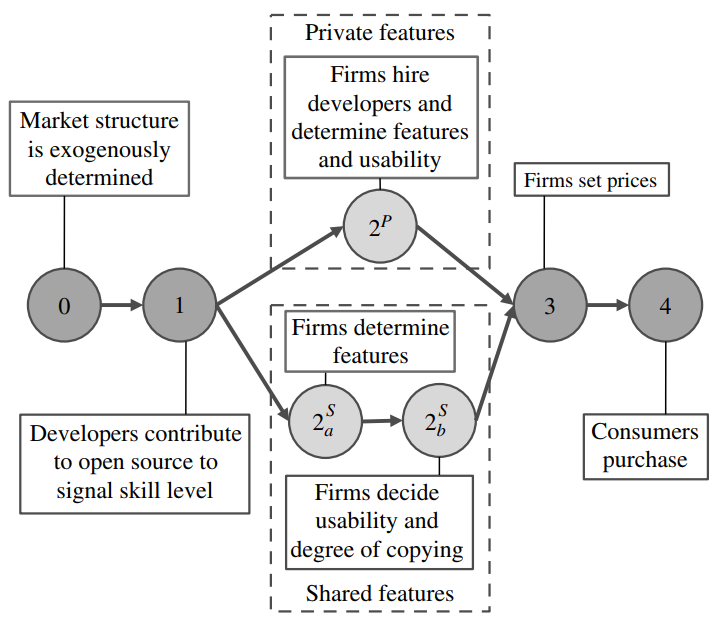
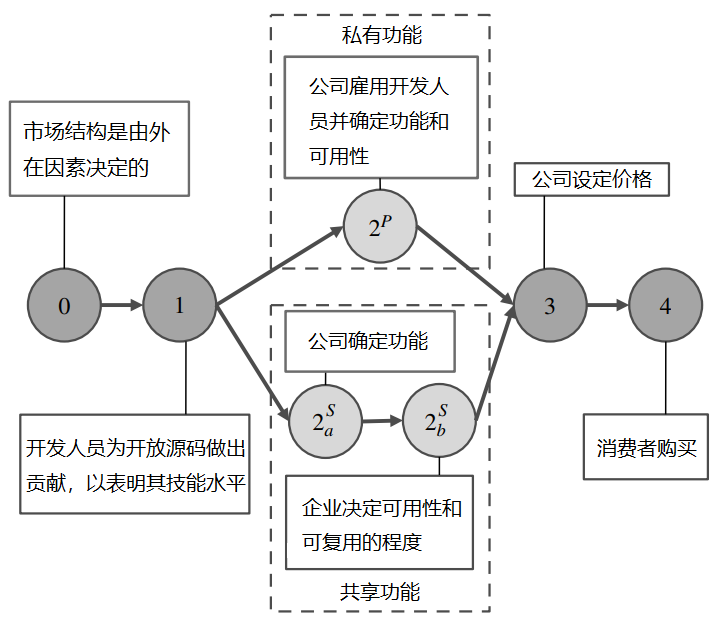
修订文章《开源软件的竞争战略》

diff --git a/_posts/2022-04-01-competitive-strategy-for-open-source-software.md b/_posts/2022-04-01-competitive-strategy-for-open-source-software.md
@@ -71,7 +71,7 @@ comments: true
 
 我们建立了一个由事先相同的公司组成的双头垄断模型，它们在两个独立但相互关联的市场中竞争：第一个是产品市场，消费者购买公司生产的软件；第二个是开发者市场，公司在其中竞争开发者。
 
-图 1 详细说明了我们模型中的阶段顺序，其中包括私人特征和共享特征市场。阶段 0、1、3 和 4 对两种类型的产品市场都是共同的，而阶段$2^P$只存在于私有功能市场，阶段$$ 2^S_a $$和$$ 2^S_b $$只存在于共享功能市场。在第一阶段，开发者选择是否对开源功能做出贡献以及贡献的多少，以表明他们的技能水平。在私有功能市场中，企业同时观察到开发者的信号，并在阶段$$ 2^P $$中做出工资报价和所有产品开发决策。在共享功能市场中，企业观察开发者的信号，并在阶段$$ 2^S_a $$中做出工资报价和唯一的功能开发决策，然后他们在阶段$$ 2^S_b $$中选择开发多少可用性和复制多少功能给他们的竞争对手。在第三阶段，企业在观察了产品质量后制定价格，在第四阶段，消费者在观察了所有质量和价格后做出购买决定。表 1 总结了我们模型的符号，区分了模型中的外生模型基元和内生结果。
+图 1 详细说明了我们模型中的阶段顺序，其中包括私人特征和共享特征市场。阶段 0、1、3 和 4 对两种类型的产品市场都是共同的，而阶段$$2^P$$只存在于私有功能市场，阶段$$ 2^S_a $$和$$ 2^S_b $$只存在于共享功能市场。在第一阶段，开发者选择是否对开源功能做出贡献以及贡献的多少，以表明他们的技能水平。在私有功能市场中，企业同时观察到开发者的信号，并在阶段$$ 2^P $$中做出工资报价和所有产品开发决策。在共享功能市场中，企业观察开发者的信号，并在阶段$$ 2^S_a $$中做出工资报价和唯一的功能开发决策，然后他们在阶段$$ 2^S_b $$中选择开发多少可用性和复制多少功能给他们的竞争对手。在第三阶段，企业在观察了产品质量后制定价格，在第四阶段，消费者在观察了所有质量和价格后做出购买决定。表 1 总结了我们模型的符号，区分了模型中的外生模型基元和内生结果。
 
 ![](/assets/img/cs-oss-01.png)
 
@@ -97,7 +97,7 @@ comments: true
 
 ### 3.1. 产品市场
 
-消费者要么选择从某个 OSS 公司购买一个单位的软件，要么不购买产品，在这种情况下，他们得到的归一化效用为 0。消费者对质量的偏好是异质的，一个消费者在价格为 p 的情况下对质量为 q 的软件产品的效用为
+消费者要么选择从某个 OSS 公司购买一个单位的软件，要么不购买产品，在这种情况下，他们得到的归一化效用为 0。消费者对质量的偏好是异质的，一个以 $$\theta$$ 为指数的消费者对质量为 q、价格为 p 的软件产品的效用为
 
 $$ u(q;\theta) = \theta q - p. $$
 
@@ -111,13 +111,13 @@ $$ q = Q(F, s). $$
 
 $$ {\partial^2Q \over \partial s \partial F} > 0. $$
 
-捕捉到这种互补性并且在特征和可用性方面都是凹的简单函数形式是 Cobb-Douglas，$$Q(F,s)=(F-s)^{1/4}$$，为了方便起见，我们使用这个函数。上述消费者偏好和产品质量的表述对所有市场都是通用的。图 2 说明了产品市场的结构：上层板块描述了私有特性市场，在这个市场中，两家公司最初都能从开源社区获得$$F_0$$的特性，下层板块描述了共享特性市场，公司将他们开发的任何特性贡献给开源。[^9] 公司$$j \in \{ 1, 2 \}$$通过雇佣$$f_j$$功能开发者和选择$$s_j$$的可用性水平来决定其产品质量，我们将公司 1 表示为总体质量较高的公司，在不损失一般性的情况下让$$q_1 > q_2$$。开发者的技能水平或生产力各不相同，$$\eta \in \{ \eta_L , \eta_H \}$$，一个开发者在被雇佣时能生产$$\eta$$单位的功能。共享特征市场和私人特征市场的关键区别在于对产品质量的表述。在上图中，私人功能市场中的公司将开放源码的功能和仅他们自己开发的功能纳入他们的产品。相比之下，下图中的共享功能市场显示，企业必须将其开发的任何功能回馈给开放源码，这些功能随后可能成为两家企业产品的一部分。
+捕捉到这种互补性并且在特征和可用性方面都是凹的简单函数形式是 Cobb-Douglas，$$Q(F,s)=(F \cdot s)^{1/4}$$，为了方便起见，我们使用这个函数。上述消费者偏好和产品质量的表述对所有市场都是通用的。图 2 说明了产品市场的结构：上层板块描述了私有特性市场，在这个市场中，两家公司最初都能从开源社区获得$$F_0$$的特性，下层板块描述了共享特性市场，公司将他们开发的任何特性贡献给开源。[^9] 公司$$j \in \{ 1, 2 \}$$通过雇佣$$f_j$$功能开发者和选择$$s_j$$的可用性水平来决定其产品质量，我们将公司 1 表示为总体质量较高的公司，在不损失一般性的情况下让$$q_1 > q_2$$。开发者的技能水平或生产力各不相同，$$\eta \in \{ \eta_L , \eta_H \}$$，一个开发者在被雇佣时能生产$$\eta$$单位的功能。共享特征市场和私人特征市场的关键区别在于对产品质量的表述。在上图中，私人功能市场中的公司将开放源码的功能和仅他们自己开发的功能纳入他们的产品。相比之下，下图中的共享功能市场显示，企业必须将其开发的任何功能回馈给开放源码，这些功能随后可能成为两家企业产品的一部分。
 
 ![](/assets/img/cs-oss-02.PNG)
 
 图 2 产品市场。私人和共享功能的比较
 
-在私有特征市场中，企业 $$j's$$ 产品有$$F_j=(F_0+ \eta f_j)$$特征。在共享特征市场中，企业决定从其竞争者那里复制多少特征，用阶段$$2^S_b$$中的$$\delta \in [0, 1]$$表示。因此，产品中的特征数量为$$F_j=(F_0 + \eta f_j + \eta \delta_j f_{-j})$$。
+在私有特征市场中，企业 j 的产品有$$F_j=(F_0+ \eta f_j)$$特征。在共享特征市场中，企业决定从其竞争者那里复制多少特征，用阶段$$2^S_b$$中的$$\delta \in [0, 1]$$表示。因此，产品中的特征数量为$$F_j=(F_0 + \eta f_j + \eta \delta_j f_{-j})$$。
 
 在这两个市场中，每个公司 j 还将产品的可用性发展到 $$s_j$$ 水平，使产品的功能对消费者来说更容易。公司 j 的产品的整体质量取决于功能是私有的（P）还是共享的（S）：
 
@@ -126,19 +126,19 @@ $$ q^S_j = Q(F_j, s_j) = [(F_0 + \eta f_j + \eta \delta_j f_{-j})s_j]^{1/4} $$.
 
 这两种情况下的生产成本都包括支付给开发人员的工资 *w*，以创建功能和提高可用性，每单位成本为 $$c_s$$。[^10] 总的固定生产成本 $$C(f, s)$$ 是功能开发成本和可用性创造成本的总和，并给出 $$C(f, s) = w \cdot f + c_s \cdot s$$。
 
-### 3.2. 开发商市场
+### 3.2. 开发者市场
 
-开发人员是异质性分布的，要么是高技能（高类型），要么是低技能（低类型）。贡献于开放源码的成本根据开发者的类型而不同。 为了贡献 *e* 特征，高类型产生的成本为 $$c_H \cdot e$$，低类型产生的成本为 $$c_L \cdot e$$，$$c_H < c_L$$ 表示高类型面临较低的成本。[^11] 高类型的开发者有一个保留期权$$\gamma ～ \psi ( \cdot )$$，其累积分布函数为$$\Psi ( \cdot )$$，支持范围为$$[\underline{R}, \bar{R}]$$，其中$$0≤ \underline{R} < \bar{R}$$。[^12] 这个选项代表了开发者从她目前的工作中获得的效用，只有当新的工资报价超过 *r* 和信号成本时，她才会接受。请注意，开发者在两个方面是异质的：他们（离散的）技能水平和他们（连续的）保留工资。 
+开发人员是异质性分布的，要么是高技能（高类型），要么是低技能（低类型）。贡献于开放源码的成本根据开发者的类型而不同。 为了贡献 *e* 特征，高类型产生的成本为 $$c_H \cdot e$$，低类型产生的成本为 $$c_L \cdot e$$，$$c_H < c_L$$ 表示高类型面临较低的成本。[^11] 高类型的开发者有一个保留选项 $$\gamma ～ \psi ( \cdot )$$，其累积分布函数为 $$\Psi ( \cdot )$$，支持范围为 $$[\underline{R}, \bar{R}]$$，其中 $$0≤ \underline{R} < \bar{R}$$。[^12] 这个选项代表了开发者从她目前的工作中获得的效用，只有当新的工资报价超过 *r* 和信号成本时，她才会接受。请注意，开发者在两个方面是异质的：他们（离散的）技能水平和他们（连续的）保留工资。 
 
 在信号成功地揭示了开发者的类型或技能水平后，开发者可以选择 COSS 公司，或外部市场。高技能开发者的外部市场之所以存在，是因为成功为开源项目做出贡献所需的技能可以在许多市场上得到有用的应用。例如，一个为 Linux 开放源码项目做出贡献的开发者可以收到甲骨文等公司的邀请，而甲骨文并不是 Linux 市场上的主要竞争者。我们通过外部需求 $$D(w)$$ 来捕捉开发者通过对开源项目的贡献所能发出的软件技能的具体程度。一个低的外部需求表明所发出的技能是非常具体的，而一个高的外部需求则表明相反。因此，外部需求 $$D(w)$$ 是市场工资的函数，并且只在它通过创造对高技能开发者的额外需求来源而影响工资的意义上影响市场结果。请注意，外部市场对没有发出信号的开发者没有需求，因为他们的技能水平是不确定的。
 
-图 3 显示了开发商市场及其与产品市场的联系。这些数字与图 1 中概述的游戏阶段相对应。开发者根据市场形成对工资的预期，并对开放源码做出贡献，向企业发出他们的技能水平的信号（阶段 1 ）。这些贡献是可以公开观察到的，企业利用这些贡献来评估开发者的技能，并向开发者提供工资（阶段 $$2^P$$ 和 $$2^S_a$$ ）。[^13] 企业同时雇用开发者，并在此过程中选择产品的功能水平。
+图 3 显示了开发商市场及其与产品市场的联系。这些数字与图 1 中概述的博弈阶段相对应。开发者根据市场形成对工资的预期，并对开放源码做出贡献，向企业发出他们的技能水平的信号（阶段 1 ）。这些贡献是可以公开观察到的，企业利用这些贡献来评估开发者的技能，并向开发者提供工资（阶段 $$2^P$$ 和 $$2^S_a$$ ）。[^13] 企业同时雇用开发者，并在此过程中选择产品的功能水平。
 
 ![](/assets/img/cs-oss-03.png)
 
-图 3 开发商市场
+图 3 开发者市场
 
-低类型的开发者可能试图伪装成高类型的开发者来说服公司雇用他们。开放源码项目的看门人会筛选出低质量的代码，并决定接受哪些提交的代码，这意味着高类型开发者的贡献成本较低（Bagozzi 和 Dholakia，2006）。为了简化我们的论述，我们做了两个假设：低类型的开发者有保留期权$$R_L≥0$$，他们在被雇佣时对 COSS 公司没有生产力；即$$\eta_L=0$$。这些假设使得雇用低类型的人无利可图。[^14]
+低类型的开发者可能试图伪装成高类型的开发者来说服公司雇用他们。开放源码项目的看门人会筛选出低质量的代码，并决定接受哪些提交的代码，这意味着高类型开发者的贡献成本较低（Bagozzi 和 Dholakia，2006）。为了简化我们的论述，我们做了两个假设：低类型的开发者有保留选项 $$R_L≥0$$，他们在被雇佣时对 COSS 公司没有生产力；即 $$\eta_L=0$$。这些假设使得雇用低类型的人无利可图。[^14]
 
 如果企业能够观察到开发者的技能水平，他们就会以这种观察为基础来确定工资。然而，当工资是不可观察的时候，它取决于对开源 *e* 的贡献，表示为$$w(e)$$。贡献 *e* 功能的 $$t \in \{L, H\}$$ 类型的开发者获得 $$u_t(w,e)=w(e) - c_t e$$，她的最佳贡献水平为
 
@@ -181,11 +181,11 @@ $$
 
 ### 3.3. 讨论和比较
 
-我们将目前的设置与Spence的典型模型（1973）进行比较，在该模型中，工人通过教育投资向完全竞争的企业市场发出信号，并获取所有的剩余。在我们的模型中，开发者对开源功能的贡献是对寻求雇佣高技能开发者的COSS公司的信号。我们在两个主要方面建立了Spence，从而使该模型适用于更广泛的环境。首先，我们的模型考虑了一个不完全竞争的、垂直差异化的双头垄断，在这个双头垄断中，公司赚取正的利润--类型内的开发者异质性和开发者的不同边际生产力意味着公司只根据最后一个功能对他们的边际价值来提供工资。因此，消费者对质量的边际价值递减使企业和开发商都能赚取盈余。
+我们将目前的设置与 Spence 的典型模型（1973）进行比较，在该模型中，工人通过教育投资向完全竞争的企业市场发出信号，并获取所有的剩余。在我们的模型中，开发者对开源功能的贡献是对寻求雇佣高技能开发者的 COSS 公司的信号。我们在两个主要方面建立了 Spence，从而使该模型适用于更广泛的环境。首先，我们的模型考虑了一个不完全竞争的、垂直差异化的双头垄断，在这个双头垄断中，公司赚取正的利润--类型内的开发者异质性和开发者的不同边际生产力意味着公司只根据最后一个功能对他们的边际价值来提供工资。因此，消费者对质量的边际价值递减使企业和开发商都能赚取盈余。
 
-第二，信号贡献有两种类型的溢出效应：开发商对公司的溢出和公司对公司的溢出。在开发者对企业的溢出效应中，开发者在第一阶段的贡献可以替代企业的功能贡献。由于信号的作用，开发者对开源的贡献越多，企业对他们的竞争就越不激烈，这就起到了减少工资的作用。在共享功能市场上，企业与企业之间会发生溢出效应，因为每个企业的功能贡献都可以提供给竞争者。因此，企业对开发者人才的竞争不那么激烈，因为企业意识到他们可以完全利用其竞争对手开发的功能。
+第二，信号贡献有两种类型的溢出效应：开发者对公司的溢出和公司对公司的溢出。在开发者对企业的溢出效应中，开发者在第一阶段的贡献可以替代企业的功能贡献。由于信号的作用，开发者对开源的贡献越多，企业对他们的竞争就越不激烈，这就起到了减少工资的作用。在共享功能市场上，企业与企业之间会发生溢出效应，因为每个企业的功能贡献都可以提供给竞争者。因此，企业对开发者人才的竞争不那么激烈，因为企业意识到他们可以完全利用其竞争对手开发的功能。
 
-相比之下，Spence（1973）的教育信号传递模型既没有考虑不完全竞争，也没有考虑我们所构想的那种溢出效应。在我们的模型中，开发者的信号传递不仅影响到该开发者的效用和雇佣他的OSS公司，而且还关键性地改变了市场中OSS公司之间的战略互动，我们认为本文是第一个研究信号传递环境中包括战略溢出效应的重要方面。这些相互冲突的激励措施在产品市场和开发商市场之间建立了关键而独特的联系，接下来我们将分析这些市场中相互联系的均衡的特性。
+相比之下，Spence（1973）的教育信号传递模型既没有考虑不完全竞争，也没有考虑我们所构想的那种溢出效应。在我们的模型中，开发者的信号传递不仅影响到该开发者的效用和雇佣他的 OSS 公司，而且还关键性地改变了市场中 OSS 公司之间的战略互动，我们认为本文是第一个研究信号传递环境中包括战略溢出效应的重要方面。这些相互冲突的激励措施在产品市场和开发商市场之间建立了关键而独特的联系，接下来我们将分析这些市场中相互联系的均衡的特性。
 
 ## 4. 平衡分析
 
@@ -193,7 +193,7 @@ $$
 
 ### 4.1. 定价均衡
 
-第三阶段的定价子博弈适用于产品市场的所有情况，它在很大程度上借用了 Moorthy（1988）的观点。我们将消费者 $$theta_{12}$$ 定义为对公司 1 和公司 2 的产品无动于衷，因此，所有对质量有较高价值的消费者，即 $$\theta > \theta_{12}$$ ，都会选择公司 1 的产品。$$theta_{12}$$ 由冷漠条件决定，$$theta_{12} \cdot q_1 - p_1 = \theta_{12} \cdot q_2 - p_2$$。同样，我们定义消费者 $$\theta_{20}$$，他在购买公司 2 的产品和不购买任何产品之间是无所谓的，这样 $$\theta_{20} q_2 - p_2 = 0$$。请注意，所有消费者 $$\theta$$，使 $$\theta_{20} < \theta < \theta_{12}$$ 选择购买公司 2 的产品，而不是公司 1 的产品或不购买的选择。然后，各公司的市场份额被确定为
+第三阶段的定价子博弈适用于产品市场的所有情况，它在很大程度上借用了 Moorthy（1988）的观点。我们将消费者 $$\theta_{12}$$ 定义为对公司 1 和公司 2 的产品无动于衷，因此，所有对质量有较高价值的消费者，即 $$\theta > \theta_{12}$$ ，都会选择公司 1 的产品。$$\theta_{12}$$ 由冷漠条件决定，$$\theta_{12} \cdot q_1 - p_1 = \theta_{12} \cdot q_2 - p_2$$。同样，我们定义消费者 $$\theta_{20}$$，他在购买公司 2 的产品和不购买任何产品之间是无所谓的，这样 $$\theta_{20} q_2 - p_2 = 0$$。请注意，所有消费者 $$\theta$$，使 $$\theta_{20} < \theta < \theta_{12}$$ 选择购买公司 2 的产品，而不是公司 1 的产品或不购买的选择。然后，各公司的市场份额被确定为
 
 $$m_1 = {1 \over M} (M - \theta_{12}) = {1 \over M} (M - { {p_1 - p_2} \over {q_1 - q_2} }), and$$
 
@@ -215,7 +215,7 @@ $$p^*_2 = \underset{p2}{\arg max} ({ {p_1-p_2} \over {q_1 - q_2} } - {p_2 \over 
 
 在私人市场的 $$2^P$$ 阶段和在共享功能市场的 $$2^S_a$$ 和 $$2^S_b$$ 阶段，子博弈的解决需要企业从战略上确定功能和可用性的最佳组合，这反过来又决定了整体质量。在共享功能市场中，搭便车的可能性导致了产品差异化的减少和价格竞争的加剧，因此不清楚在均衡状态下是否有公司会对功能做出贡献，或者每个公司是否会发现搭便车在其竞争者的贡献上更有利可图。
 
-**命题1（产品市场均衡）** 由 $$F_0$$ 初始开源特征产生的产品策略均衡，并且企业 $$j\in\{1, 2\}$$ 根据产品质量进行区分，其特征是特征水平、可用性和整体质量，取决于市场类型：
+**命题 1（产品市场均衡）** 由 $$F_0$$ 初始开源特征产生的产品策略均衡，并且企业 $$j\in\{1, 2\}$$ 根据产品质量进行区分，其特征是特征水平、可用性和整体质量，取决于市场类型：
 
 |私有|共享|
 |------|----------|
@@ -231,7 +231,7 @@ $$p^*_2 = \underset{p2}{\arg max} ({ {p_1-p_2} \over {q_1 - q_2} } - {p_2 \over 
 
 第二，共享特征市场阶段 $$2^S_b$$ 的含义是，两家公司都完全复制竞争对手的特征。部分复制的策略似乎是最佳的，因为它将创造更多的产品差异化。为了理解这个结果背后的直觉，请分别考虑每个公司的激励机制。对于高质量的公司来说，复制更多的产品总是更受欢迎，因为这样做可以提高公司自身的质量和公司之间的质量差异化程度 $$(q_1-q_2)$$。对于低质量的公司来说，复制会增加其自身的质量，但会减少质量的差异化。然而，当质量水平相差足够大时，质量提高的正面效应支配了差异化减少的负面效应。低质量的公司完全复制高质量公司的特征，因此，为了达到一定的质量水平，在可用性方面的投资较少。
 
-我们发现，只有高质量的公司开发的功能超出了开发者贡献的开源功能F0。低质量的公司则完全搭上了高质量公司提供的功能。为什么高质量的公司会开发出一个积极的功能？这个直觉来自于这样一个事实：质量维度是互补的，这意味着消费者对可用性的边际效用随着功能水平的提高而增加。尽管特征并不直接有助于产品质量的区分，但它们确实放大了企业间可用性差异的影响。请注意，低质量的公司在可用性方面的投资比高质量的公司少，而高质量的公司开发功能是为了提高产品的差异化程度，而这种差异化是由拥有较高可用性的产品所导致的。因此，来自可用性的差异化的增加使得创造降低竞争强度的特征是值得的。
+我们发现，只有高质量的公司开发的功能超出了开发者贡献的开源功能 F0。低质量的公司则完全搭上了高质量公司提供的功能。为什么高质量的公司会开发出一个积极的功能？这个直觉来自于这样一个事实：质量维度是互补的，这意味着消费者对可用性的边际效用随着功能水平的提高而增加。尽管特征并不直接有助于产品质量的区分，但它们确实放大了企业间可用性差异的影响。请注意，低质量的公司在可用性方面的投资比高质量的公司少，而高质量的公司开发功能是为了提高产品的差异化程度，而这种差异化是由拥有较高可用性的产品所导致的。因此，来自可用性的差异化的增加使得创造降低竞争强度的特征是值得的。
 
 上述共享功能市场的产品市场结果对开发者市场有一个关键的影响，我们在下一节中研究：只有高类型的公司雇用开发者，因为低类型的公司不开发功能 $$(f_2=0)$$，而且只有外部市场为发出信号的开发者提供了一个替代品。
 
@@ -241,17 +241,17 @@ $$p^*_2 = \underset{p2}{\arg max} ({ {p_1-p_2} \over {q_1 - q_2} } - {p_2 \over 
 
 对于信号传递博弈中的分离均衡，我们确定了工资的条件，即导致一些高类型的开发者做出积极的贡献，并确保低类型的开发者不会发现模仿他们是有利可图的。下面的结果提供了工资和开源贡献方面的最小成本分离（LCS）均衡的必要条件。与最低成本分离均衡相对应的贡献和信念，包括满足直觉标准的均衡外信念（Cho and Kreps 1987），有助于确定一个独特的均衡，我们将进一步关注这个均衡。[^15]
 
-**命题2（开发者市场分离均衡）** 在LCS均衡中，对开源做出贡献的高类型开发者的数量和每个开发者贡献的功能数量都随着工资的增加而增加。
+**命题 2（开发者市场分离均衡）** 在 LCS 均衡中，对开源做出贡献的高类型开发者的数量和每个开发者贡献的功能数量都随着工资的增加而增加。
 
 请注意，这一结果与产品市场的类型无关。两类开发商的缴费决定决定了分离所需的最低缴费额；$$e^{LCS}(w) = w/c_L$$。工资越高，低类型的开发者就越有动力去伪装成高类型的开发者，因此后者必须贡献更多的功能，使前者伪装起来没有吸引力。具有低保留或外部选择权的高技能开发者，即 $$r<r^{LCS}(w)=w-c_H e^{LCS}(w)=w(w-c_H/c_L)$$，选择发出信号，意味着发出信号的高类型开发者的数量为 $$f^{LCS}_0 = \Psi (r^{LCS}) = \Psi (w - c_H e^{LCS}(w))$$。因此，随着工资的增加，那些认为对开放源码的贡献与他们目前的保留选择相比相对更有吸引力的高类型开发者的数量也会增加。
 
-第一阶段产生的开源特性的数量是发出信号的开发者数量与每个开发者的贡献的乘积，$$F^{LCS}_0(w) = f^{LCS}_0 e^{LCS} (w) = (w/c_L) \Psi (w(1-c_H/c_L))$$。这一结果使我们能够关注决定 $$F_0$$ 的（预期）工资水平。我们把注意力进一步限制在LCS均衡结果上，并去掉LCS的上标。
+第一阶段产生的开源特性的数量是发出信号的开发者数量与每个开发者的贡献的乘积，$$F^{LCS}_0(w) = f^{LCS}_0 e^{LCS} (w) = (w/c_L) \Psi (w(1-c_H/c_L))$$。这一结果使我们能够关注决定 $$F_0$$ 的（预期）工资水平。我们把注意力进一步限制在 LCS 均衡结果上，并去掉 LCS 的上标。
 
 ## 5. 市场互动和比较
 
 在前面的结果中，我们分别考察了涉及企业和消费者的产品市场竞争，以及涉及企业和开发者的开发者市场。我们将整个市场的这两方面整合起来，以了解私人功能和共享功能市场的竞争性产品策略。市场之间的关键联系是开发者的工资，它决定了有多少功能被生产出来以纳入产品中。
 
-均衡工资 $$w^P$$ 或 $$w^S$$ 等于由企业需求和对开发商的外部需求D4w5形成的对开发商的总体需求，以及宁愿发出信号也要保留选择的开发商的总供给。我们把私人特征市场的超额需求函数 $$\xi^P$$ 和工资为 w 的开发者共享特征市场的超额需求函数 $$\xi^S$$ 表示为
+均衡工资 $$w^P$$ 或 $$w^S$$ 等于由企业需求和对开发商的外部需求 D4w5 形成的对开发商的总体需求，以及宁愿发出信号也要保留选择的开发商的总供给。我们把私人特征市场的超额需求函数 $$\xi^P$$ 和工资为 w 的开发者共享特征市场的超额需求函数 $$\xi^S$$ 表示为
 
 $$ \begin{aligned}
 & &\xi^P(w) = &D(w) + M^2 \sqrt{\eta \over {c_s w^3} } D(\pi^F_1 + \pi^F_2) & & &\\\\ 
@@ -261,27 +261,27 @@ $$ \begin{aligned}
 & & & - \underbrace{\Psi (w -  [1 - {c_H \over c_L}])}_{Developers' signaling}. & & (4)
 \end{aligned}$$
 
-将过剩需求等同于0，决定了两种情况下的均衡工资。低于这个工资水平，为开源做出贡献的高类型开发者就会比企业愿意雇用的要少，而高于这个工资水平，更多的开发者就会倾向于做出贡献而不是企业愿意雇用。因此，均衡工资的作用是平衡开发者和企业的信号激励，我们研究了它与市场规模、信号成本和生产可用性的成本之间的比较静态。私有特征和共有特征市场的隐含方程 $$\xi^P(w^P)=0$$ 或 $$\xi^S(w^S)=0$$ 分别决定了均衡工资 $$w^P$$ 或 $$w^S$$。
+将过剩需求等同于 0，决定了两种情况下的均衡工资。低于这个工资水平，为开源做出贡献的高类型开发者就会比企业愿意雇用的要少，而高于这个工资水平，更多的开发者就会倾向于做出贡献而不是企业愿意雇用。因此，均衡工资的作用是平衡开发者和企业的信号激励，我们研究了它与市场规模、信号成本和生产可用性的成本之间的比较静态。私有特征和共有特征市场的隐含方程 $$\xi^P(w^P)=0$$ 或 $$\xi^S(w^S)=0$$ 分别决定了均衡工资 $$w^P$$ 或 $$w^S$$。
 
-**命题3（工资）** 以下属性 对均衡工资来说是成立的。
+**命题 3（工资）** 以下属性 对均衡工资来说是成立的。
 
 (i) 共享特征市场上的工资低于 在私人特征市场上，$$w^S < w^P$$。
 
 (ii) 在两个市场中，w 都满足以下属性：w 在市场规模 $$(\delta w / \delta M > 0)$$、信号成本 $$(\delta w / \delta c_H > 0)$$ 和技能水平 $$(\delta w / \delta \eta > 0)$$ 中是增加的；在可用性成本 $$(\delta w / \delta c_s < 0)$$ 中是减少的。
 
-在(i)中，我们发现在共享功能市场中，由于企业之间的免费搭车，均衡工资较低。我们从命题1中发现，在共享功能市场上，$$f_2=0$$ 与支付给开发者的工资无关，公司2选择完全自由搭车，复制公司1的功能。自由搭车的效应减少了企业间在开发者市场上的竞争，导致开发者工资的降低，这反过来又导致第一阶段产生的开源功能减少。
+在 (i) 中，我们发现在共享功能市场中，由于企业之间的免费搭车，均衡工资较低。我们从命题 1 中发现，在共享功能市场上，$$f_2=0$$ 与支付给开发者的工资无关，公司 2 选择完全自由搭车，复制公司 1 的功能。自由搭车的效应减少了企业间在开发者市场上的竞争，导致开发者工资的降低，这反过来又导致第一阶段产生的开源功能减少。
 
-检查(ii)中的比较统计学，我们发现工资随着市场规模M的增加而增加，因为更大的市场会使企业在创造更高质量的产品方面进行更多的投资，而企业之间的竞争会促使工资上升。当生产可用性的成本较低时，工资也较高，因为低的 $$c_s$$ 允许企业在可用性方面进行更多的投资。较高的可用性水平提高了互补性特征对消费者的价值，企业在特征方面的投资增加，从而提高了开发者的工资。当信号传递对高类型的开发者来说是昂贵的时候，更少的人发出信号，更多的人选择他们的保留选项，导致更少的开源功能，这种减少的供应提高了工资。
+检查 (ii) 中的比较统计学，我们发现工资随着市场规模 M 的增加而增加，因为更大的市场会使企业在创造更高质量的产品方面进行更多的投资，而企业之间的竞争会促使工资上升。当生产可用性的成本较低时，工资也较高，因为低的 $$c_s$$ 允许企业在可用性方面进行更多的投资。较高的可用性水平提高了互补性特征对消费者的价值，企业在特征方面的投资增加，从而提高了开发者的工资。当信号传递对高类型的开发者来说是昂贵的时候，更少的人发出信号，更多的人选择他们的保留选项，导致更少的开源功能，这种减少的供应提高了工资。
 
 我们接下来研究开放源码功能的提供，这是专家用户以及政策制定者和开放源码项目的初始创建者所关心的，他们可能会寻求最大化公开可用的功能数量。
 
-**命题4（开源的创造）** 当市场规模大，高类型开发者的信号成本低时，在私有功能市场下，开源功能的创造要比共享功能市场高。
+**命题 4（开源的创造）** 当市场规模大，高类型开发者的信号成本低时，在私有功能市场下，开源功能的创造要比共享功能市场高。
 
 在共享特征市场中，两家公司不仅可以获得高类型开发者对开源的贡献，还可以获得高质量公司开发的特征。相比之下，私有功能市场允许企业将其功能保持在私有状态，只留下对功能的信号贡献作为开放源码，导致我们预期开放源码的功能较少。然而，当消费者市场很大时，生产更高质量的产品具有更大的价值，企业在私人功能市场上对开发者的竞争更加激烈。这种效应提高了高类型开发者与低类型开发者分离的动机。当分离相对容易时（$$c_H$$ 与 $$c_L$$ 相比较小），更多的高类型开发者进入市场，更多的开发者为开放源码功能作出贡献。
 
 开源功能的水平，加上坚定的决定，影响到整体的产品质量，我们把注意力转向这个问题。
 
-**命题5（产品质量）** 对比这些市场，我们发现以下情况。
+**命题 5（产品质量）** 对比这些市场，我们发现以下情况。
 
 (i) 私人特征市场提供最低的质量水平。
 
@@ -297,7 +297,7 @@ $$ \begin{aligned}
 
 接下来，我们评估消费者和企业在两个市场上获得的剩余水平 和企业在两个市场上获得的剩余。
 
-**命题6（利润和消费者盈余）** 我们研究了盈余的创造和在企业和消费者之间的分配情况。我们发现，在企业和消费者之间创造和分配盈余
+**命题 6（利润和消费者盈余）** 我们研究了盈余的创造和在企业和消费者之间的分配情况。我们发现，在企业和消费者之间创造和分配盈余
 
 (i) 在共享特征市场下，高质量的公司可以获得更高的利润。
 
@@ -307,11 +307,11 @@ $$ \begin{aligned}
 
 (ii) 中的消费者剩余结果令人惊讶地具有普遍性和反直觉性：企业对开发者竞争的减少增加了对消费者的剩余。其理由是，企业开发的产品中使用的信号（开源功能）的效用，以及由于低质量企业对功能的搭便车而导致的开发者市场竞争的减少，都有利于消费者。因此，与鲍尔默的观点相反，即强制性共享许可是一个“附着在自己身上的癌症”，我们发现这样的要求可能对消费者和公司都有利。
 
-## 6. 结论，局限性，和 进一步的工作
+## 6. 结论，局限性，和进一步的工作
 
-商业化的开源软件市场正在迅速增长，并对常规软件市场产生了许多战略影响（《经济学人》2009）。企业利用开源的能力改变了产品设计的决策，这比产品的组成部分完全是专有的标准设置要多。我们构建了一个商业开源市场的双面模型，其中企业在产品和开发者市场中竞争。开发者为开放源码做出贡献，向企业传递他们的技能水平，这决定了企业可用于其产品的开放源码水平。企业雇佣开发者来建造他们的产品，然后他们在一个垂直差异化的市场上为消费者竞争。我们比较了两种常见的开放源代码许可证下的均衡结果。我们相信我们的框架可以帮助营销学者理解一个具有重大概念差异的领域，它对竞争性的营销策略有很大的影响，并且首先决定了创造的公共产品的数量。未来的工作可以探讨一些领域，比如企业选择采用哪种许可证，以及是否同时在多个开源市场上运作。
+商业化的开源软件市场正在迅速增长，并对常规软件市场产生了许多战略影响（《经济学人》2009）。企业利用开源的能力改变了产品设计的决策，这比产品的组成部分完全是专有的标准设置要多。我们构建了一个商业开源市场的双边模型，其中企业在产品和开发者市场中竞争。开发者为开放源码做出贡献，向企业传递他们的技能水平，这决定了企业可用于其产品的开放源码水平。企业雇佣开发者来建造他们的产品，然后他们在一个垂直差异化的市场上为消费者竞争。我们比较了两种常见的开放源代码许可证下的均衡结果。我们相信我们的框架可以帮助营销学者理解一个具有重大概念差异的领域，它对竞争性的营销策略有很大的影响，并且首先决定了创造的公共产品的数量。未来的工作可以探讨一些领域，比如企业选择采用哪种许可证，以及是否同时在多个开源市场上运作。
 
-我们的模型有助于合理地解释在行业中观察到的一些困惑，例如为什么红帽公司对Linux的贡献明显多于其他公司，以及为什么强制共享的市场实际上比专有市场能产生更高质量的产品。我们表明，企业之间强制分享功能贡献实际上可以提高利润和消费者剩余，与企业可以私下进行适当投资的市场相比，在一个可以搭便车的市场中，企业可以生产更高质量的产品。我们的模型还扩展了先前关于就业市场信号传递的工作（Spence 1973），包括两种类型的溢出效应：开发商-公司和公司-公司，并且我们证明了公司和消费者如何从这些溢出效应中受益。
+我们的模型有助于合理地解释在行业中观察到的一些困惑，例如为什么红帽公司对 Linux 的贡献明显多于其他公司，以及为什么强制共享的市场实际上比专有市场能产生更高质量的产品。我们表明，企业之间强制分享功能贡献实际上可以提高利润和消费者剩余，与企业可以私下进行适当投资的市场相比，在一个可以搭便车的市场中，企业可以生产更高质量的产品。我们的模型还扩展了先前关于就业市场信号传递的工作（Spence 1973），包括两种类型的溢出效应：开发商-公司和公司-公司，并且我们证明了公司和消费者如何从这些溢出效应中受益。
 
 像往常一样，在正式模型的背景下进行这样的分析，需要做出许多简化的假设和抽象，我们在这里讨论，我们评估了几个维度，目前的论文可以沿着这些维度扩展。
 
@@ -319,20 +319,19 @@ $$ \begin{aligned}
 
 第二，企业面临着各种“市场进入”类型的决策，包括是否进入特定的市场，这可能取决于企业的资源、经验和能力，我们的模型并没有捕捉到，但这将是进一步研究的有趣方面。一个公司可能面临着进入许多开源市场之一的选择（例如，私有功能与共享功能市场）；它应该进入哪个市场？如果这些市场是不同的，并且公司忽略了其竞争对手的进入决定，那么本文的模型将分别适用于每个市场环境。
 
-第三，在多产品或前瞻性的环境中，企业对开放源码做出贡献的动机更为复杂。一个多产品公司可能对开放源码做出贡献的原因是，这种贡献可以削弱另一个市场的竞争对手。这一理论意味着，IBM对Linux的贡献，或Sun对OpenOffice的贡献，背后的一个动机可能是希望减少微软的市场支配地位（和收入），使每个公司能够更有效地竞争。
+第三，在多产品或前瞻性的环境中，企业对开放源码做出贡献的动机更为复杂。一个多产品公司可能对开放源码做出贡献的原因是，这种贡献可以削弱另一个市场的竞争对手。这一理论意味着，IBM 对 Linux 的贡献，或 Sun 对 OpenOffice 的贡献，背后的一个动机可能是希望减少微软的市场支配地位（和收入），使每个公司能够更有效地竞争。
 
-第四，我们对开源产品的任何横向差异化进行了抽象。公司可能开发的软件不是通用的，而是针对特定的利基用户的。例如，某些版本的Linux针对嵌入式或移动设备市场，其重点可能是低功耗的计算，而不是获得高功率的功能。
+第四，我们对开源产品的任何横向差异化进行了抽象。公司可能开发的软件不是通用的，而是针对特定的利基用户的。例如，某些版本的 Linux 针对嵌入式或移动设备市场，其重点可能是低功耗的计算，而不是获得高功率的功能。
 
 总之，建立在开放源码上的软件市场正在迅速增长，最近随着谷歌安卓操作系统的发布，开放源码已经跃升为移动计算平台。在移动市场上，硬件制造商生产基于安卓系统的智能手机，并在一个与我们模型中的共享功能市场非常相似的环境中发布源代码。我们的设定自然延伸到评估和理解手机市场中制造商之间的竞争。总的来说，我们预计开源市场将在未来吸引研究人员的极大关注，他们希望研究这个行业中产品设计、定价和公司战略的独特方面。
 
 ## 7. 电子伴侣
 
-本文的电子版配套资料可作为在线版本的一部分，可在[http://mktsci.pubs.informs.org/](http://mktsci.pubs.informs.org/)。
-
+本文的电子版配套资料可作为在线版本的一部分，可在 [http://mktsci.pubs.informs.org/](http://mktsci.pubs.informs.org/)。
 
 ## 鸣谢
 
-作者感谢Anthony Dukes、Oded Koenigsberg、斯坦福大学、芝加哥大学、密歇根大学、德克萨斯大学达拉斯分校、蒙特利尔高等商学院3GTM会议、K和长江商学院营销研究论坛的研讨会参与者的意见。任何其余的错误 是他们自己的。
+作者感谢 Anthony Dukes、Oded Koenigsberg、斯坦福大学、芝加哥大学、密歇根大学、德克萨斯大学达拉斯分校、蒙特利尔高等商学院 3GTM 会议、K 和长江商学院营销研究论坛的研讨会参与者的意见。任何其余的错误 是他们自己的。
 
 ## References
 
